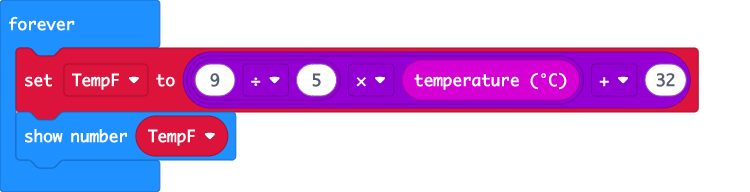
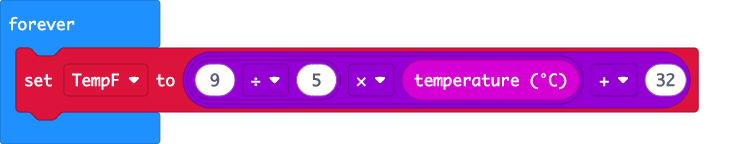
Update main.blocks, main.ts, TempConvTutorial.md

diff --git a/main.ts b/main.ts
@@ -1,5 +1,4 @@
 let TempF = 0
 basic.forever(function () {
     TempF = 9 / 5 * input.temperature() + 32
-    basic.showNumber(TempF)
 })

diff --git a/TempConvTutorial.md b/TempConvTutorial.md
@@ -13,6 +13,7 @@ The first thing we will do is to create a new variable. One of the main blocks i
 
 Select the VARIABLES block and then select MAKE A VARIABLE option.
 !["Make a Variable"](../images/makevariable.png)
+!["Working yet?"](.github/makecode/blocks.png)
 
 When the option comes up to name your variable, use a name that will be meaningful to you. In this case we use "TempF" and select OK.
 !["Options after creating variable"](variablemade.png)
@@ -32,14 +33,32 @@ Temperature (F) = 9/5(Temperature C) + 32
 If we go into the MATH block you'll see there are a number blocks that have two values and an operator (+, -, x, /).
 
 You can pick any of those blocks and drop it into the workspace. Click inside the first space in the block and type 9. Click inside the second space and type 5. Finally, change the operator between them by using the dropdown menu to the division symbol.
-[insert pictures]
+
+```blocks
+let TempF = 0
+basic.forever(function () {
+    TempF = 9 / 5
+})
+```
 
 Now repeat that procedure and grab another similar block from the MATH block. This time we're going to take the block we just created and drag that to fit that entire block within the first space of the new block. 
 Then go to the VARIABLE block and drag out the TempF block and drop it into the second space. Finally, change the operator to be an X for multiplying. It should look like below.  
-[insert pictures]
+
+```blocks
+let TempF = 0
+basic.forever(function () {
+    TempF = 9 / 5 * input.temperature()
+})
+```
 
 Now we need to repeat this same procedure a third (and final!) time. For this round we will drop the compound block you just created into the first space of the new block. Then in the second space, type 32. If you know a little about temperatures, you know that water freezes at 32 degrees F and 0 degrees C. This is why we need to add 32 to the formula! Change the operator so that it is a +. 
-[insert pictures]
+
+```blocks
+let TempF = 0
+basic.forever(function () {
+    TempF = 9 / 5 * input.temperature() + 32
+})
+```
 
 We now have the core of our code. 
 
